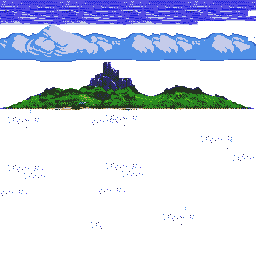
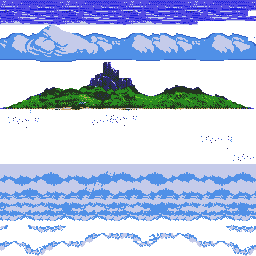
Add upper clouds to AOZ parallax; fine adjustments

Changed region(s): [[0.0, 0.625, 1.0, 0.9062], [0.0, 0.9062, 1.0, 1.0]]

diff --git a/src/parallax.c b/src/parallax.c
@@ -127,6 +127,7 @@ parallax_draw(Parallax *prl, Camera *camera)
 
             start_y = level_water_y - camera->pos.vy - (CENTERY << 11);
             start_y = MAX(start_y, ymin);
+            start_y = MIN(start_y, (95 << 12)); // Discovered by hand...
         }
     }
 
